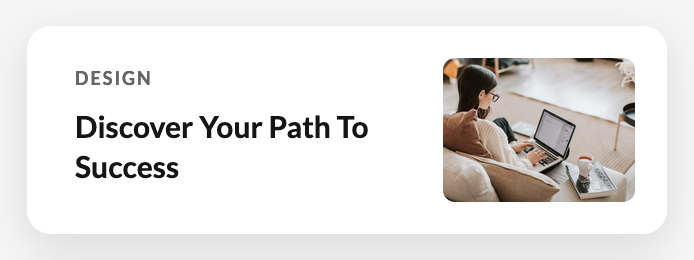
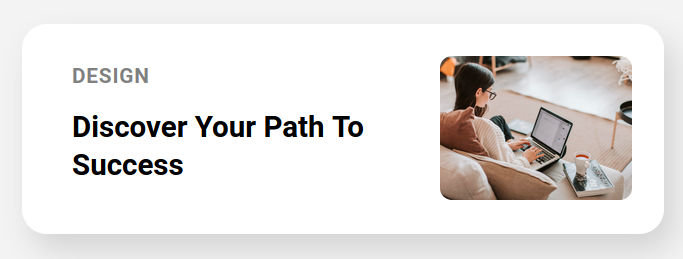
update showoff pictures

diff --git a/stylesimple1.css b/stylesimple1.css
@@ -26,7 +26,7 @@ body {
     height: 210px;
     display: flex;
     flex-direction: row;
-    box-shadow: 10px 10px 20px lightgrey;
+    box-shadow: 10px 16px 30px lightgrey;
 }
 
 .left {
